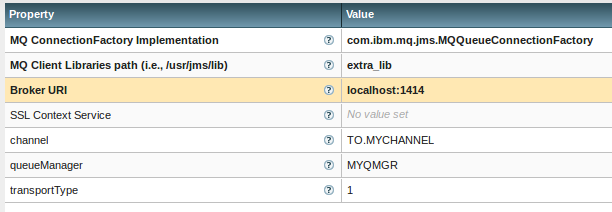
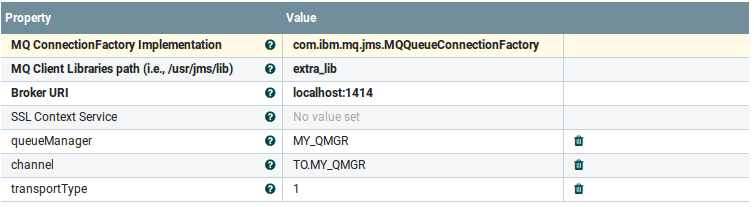
upgraded to nifi 1.1.0

diff --git a/README.md b/README.md
@@ -2,7 +2,7 @@
 Build a nifi docker image on Alpine Linux distro. A sample Nifi flow is included.
 
 ## Version
-- Nifi: 0.6.1
+- Nifi: 1.1.0
 - IBM MQ client: 7.5.0.2
 - Oracle client: 11.2.0.3
 
